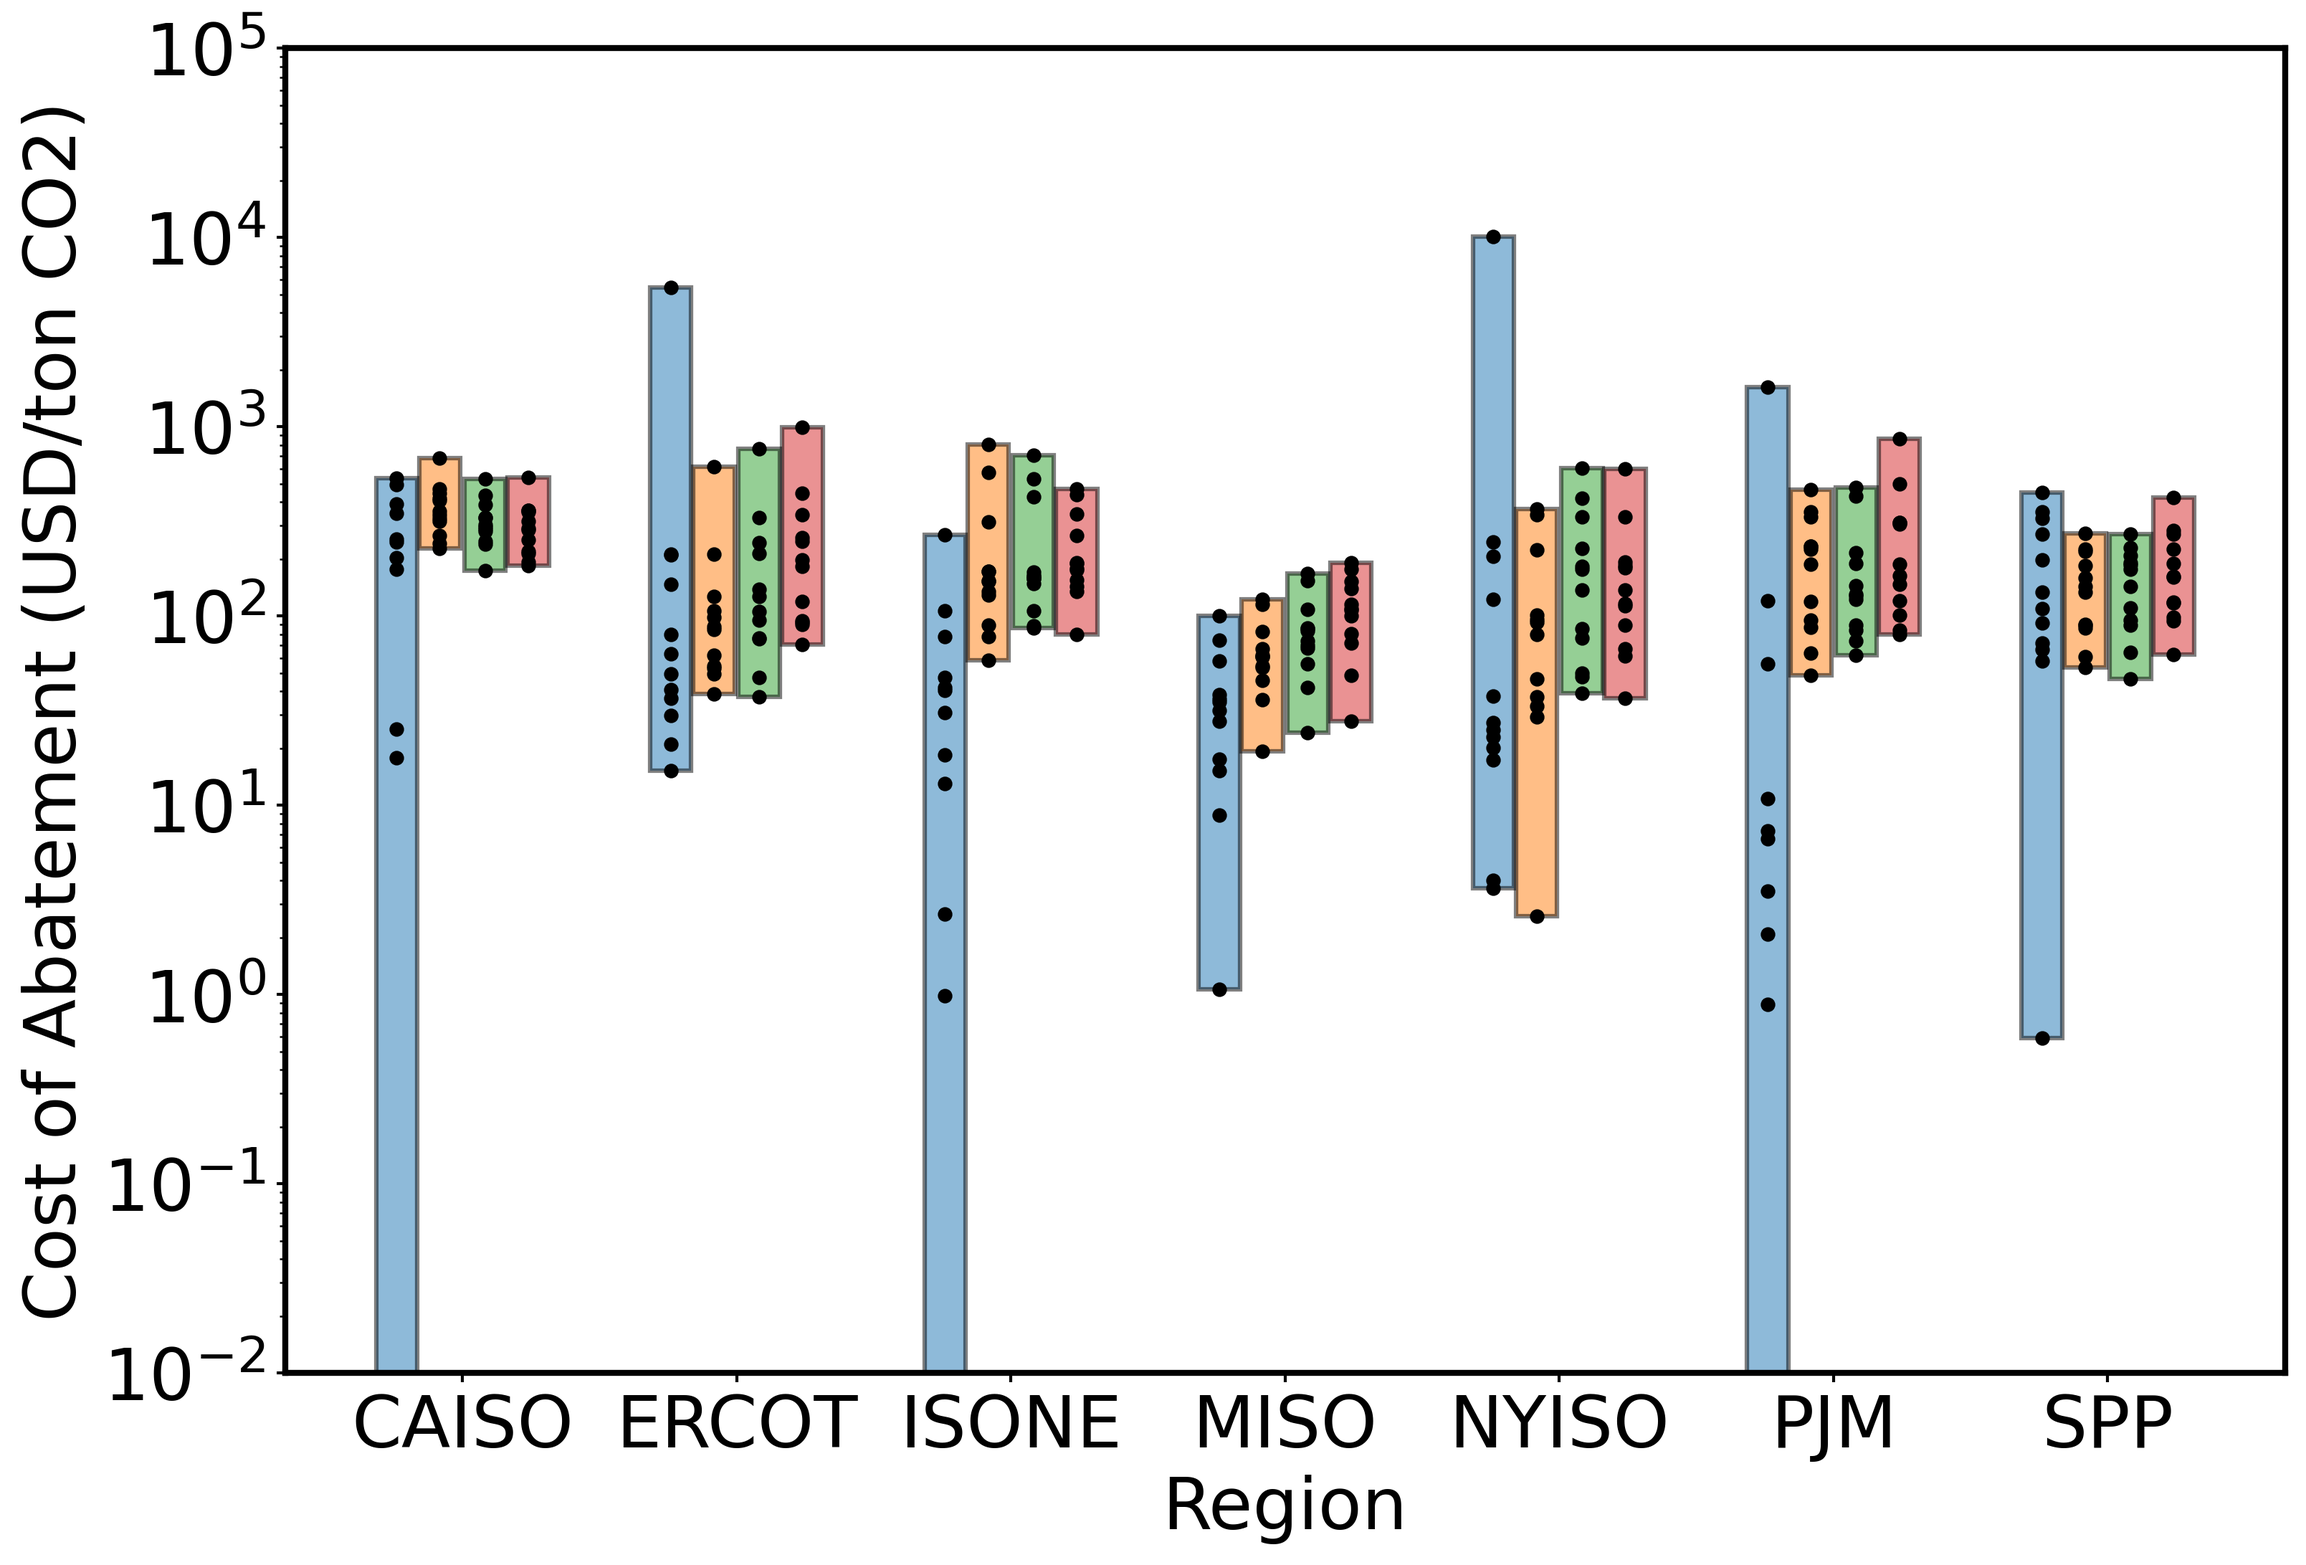
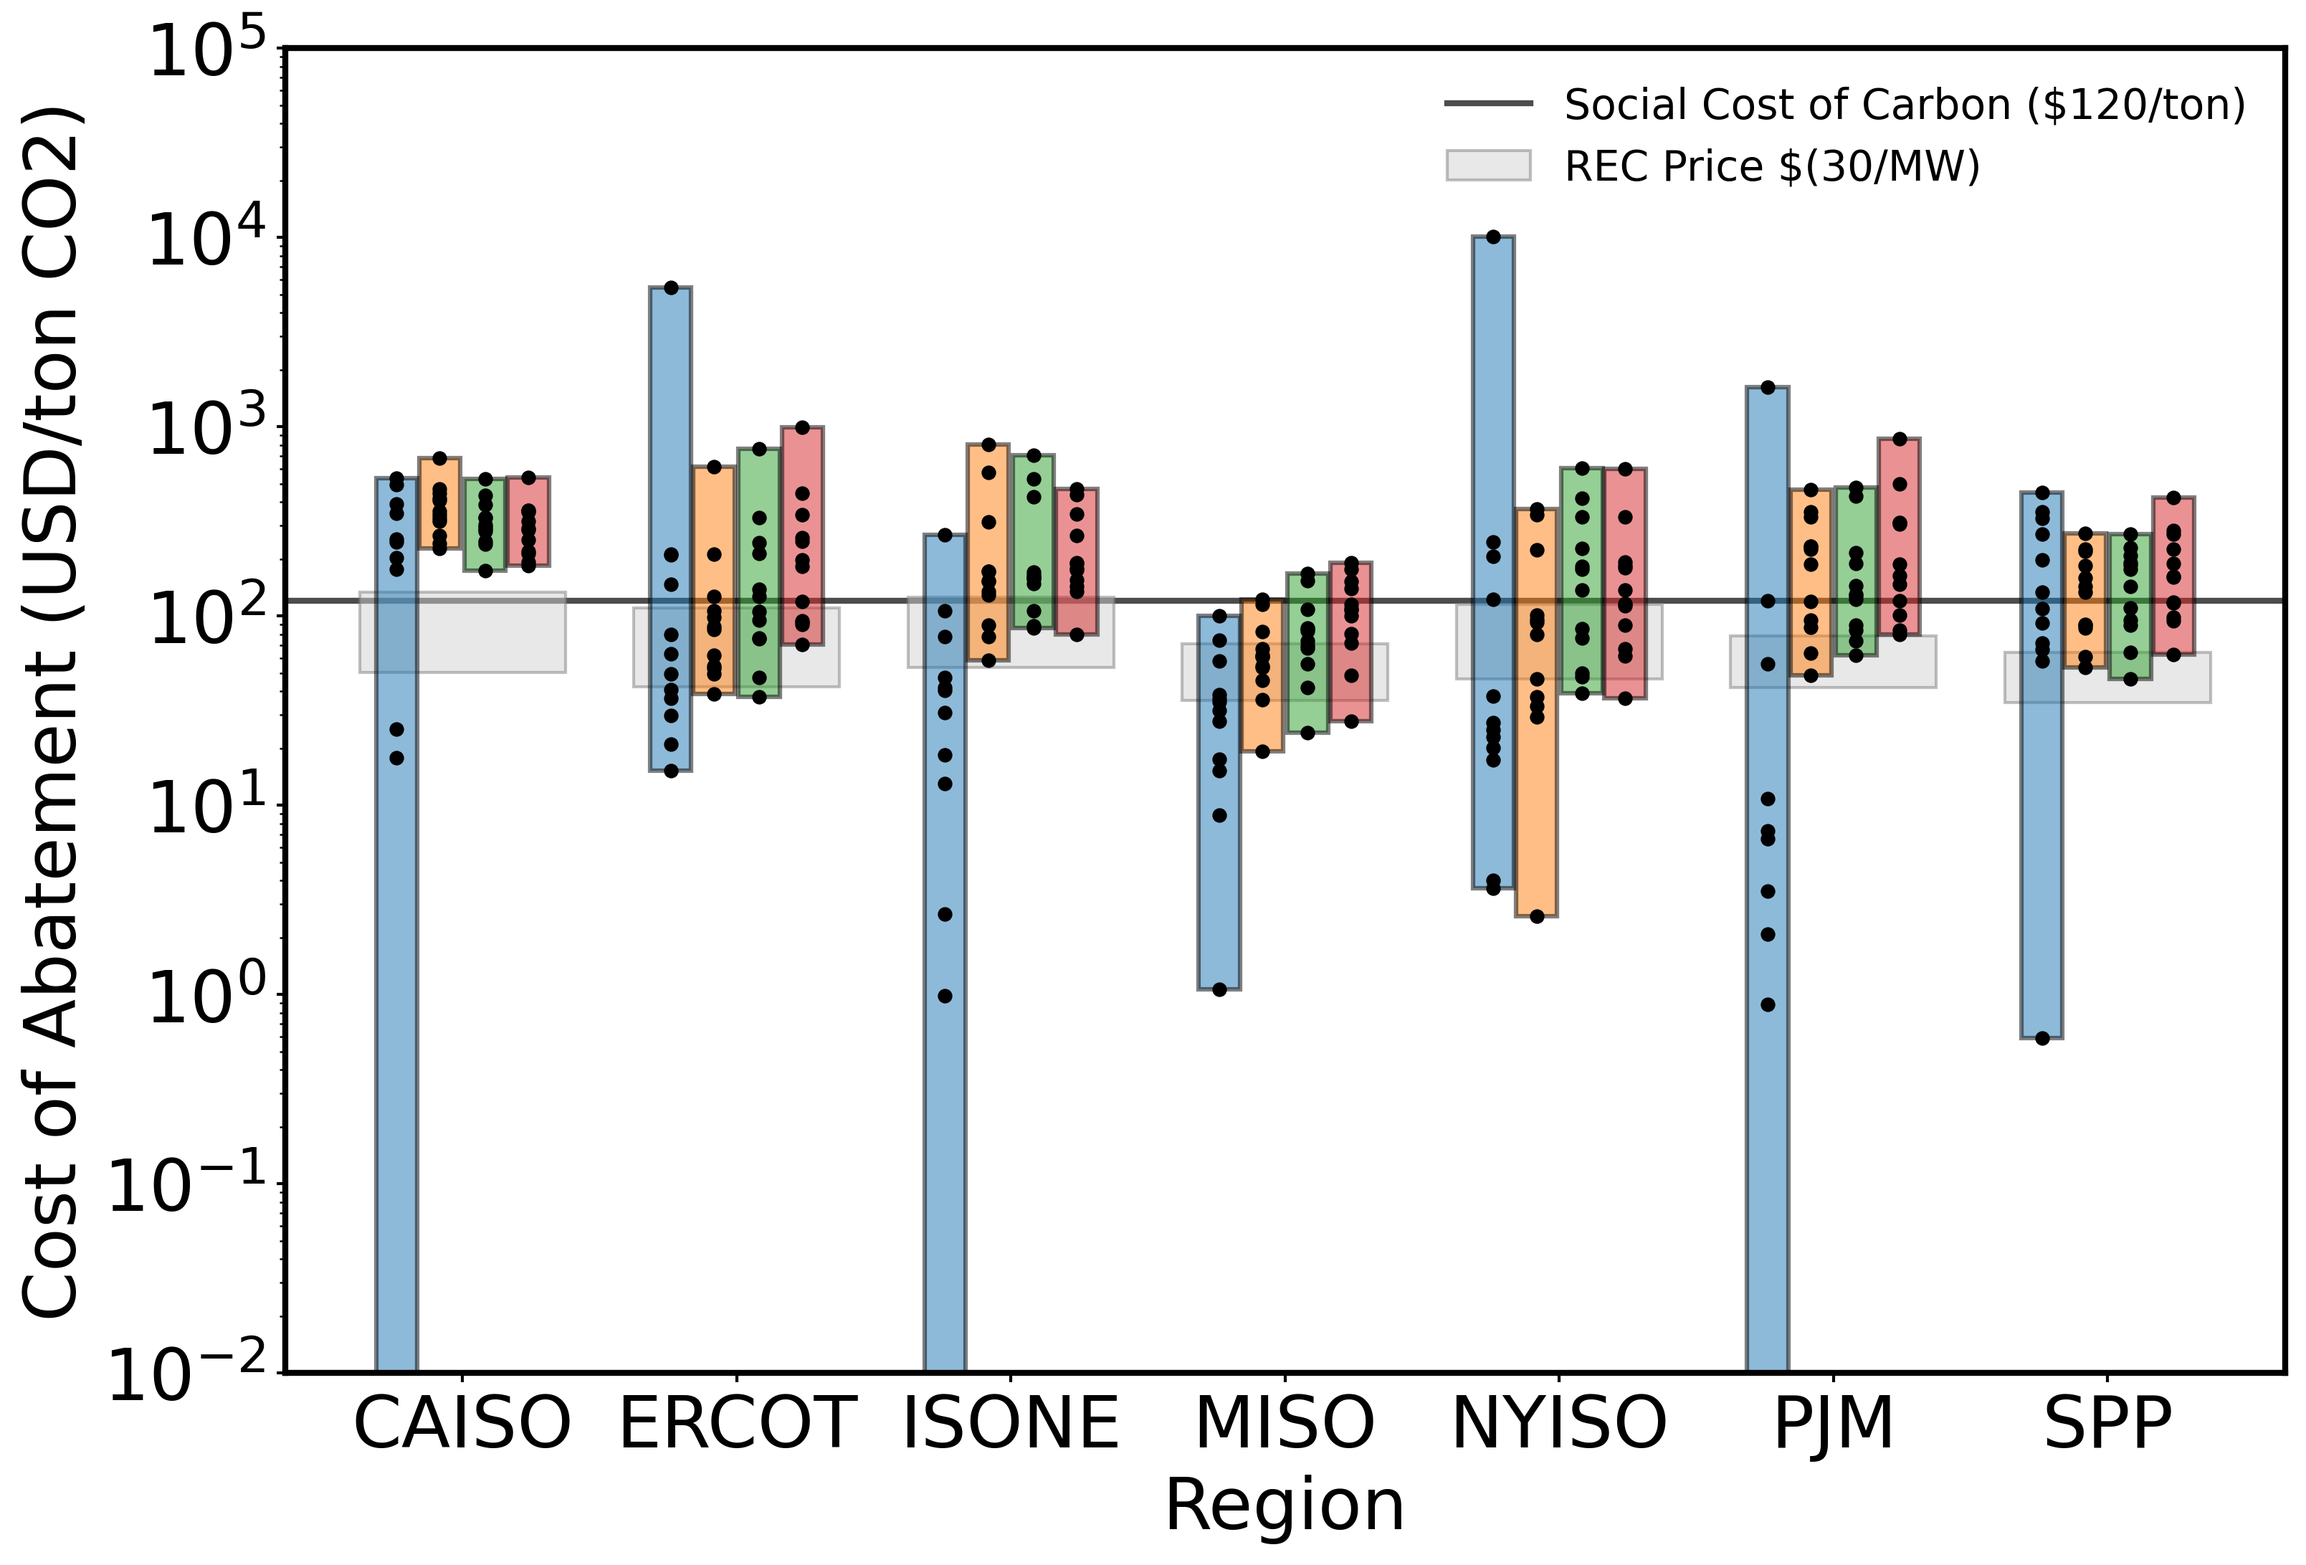
- Adding _add_scc_and_rec function to shadowcostwholesale_boxplot.py to add optional REC and SCC overlays
- Adding data/rec/values.csv as a placeholder for more REC values

- Adding updated shadowcost pdf and png

diff --git a/paper_figures/code/shadowcostwholesale_boxplot.py b/paper_figures/code/shadowcostwholesale_boxplot.py
@@ -2,6 +2,7 @@ import numpy as np
 import pandas as pd
 import os
 import matplotlib.pyplot as plt
+from matplotlib.patches import Rectangle, Patch
 
 from analysis import pricesignal as ps
 from analysis import emissionscost as ec
@@ -108,7 +109,7 @@ for region_idx, region in enumerate(regions):
                     height = height, 
                     bottom=bottom, 
                     width=width, 
-                    label=system_name, 
+                    label=sys, 
                     facecolor=colors[idx],
                     edgecolor='k',
                     linewidth=1.5,
@@ -125,6 +126,67 @@ ax.set(
     ylabel="Cost of Abatement (USD/ton CO2)",
     ylim=(1e-2, 1e5),
     yscale="log"
+)
+
+def _add_scc_and_rec(ax, regions, ps, width, scc=True, rec=True):
+    values_df = pd.read_csv("data/rec/values.csv") # TODO: update with more regional data
+    rec_price_usd_mw = values_df[values_df['type'] == 'rec']['typical'].values[0]  # $/MW
+    scc_price_usd_ton = values_df[values_df['type'] == 'scc']['typical'].values[0]  # $/ton
+    
+    legend_info = {'handles': [], 'labels': []}
+    
+    if scc:  # Add SCC line
+        scc_line = ax.axhline(
+            y=scc_price_usd_ton, color='black', linestyle='-', alpha=0.7, linewidth=2,
+            label=f'Social Cost of Carbon (${scc_price_usd_ton}/ton)', zorder=0
+        )
+        legend_info['handles'].append(scc_line)
+        legend_info['labels'].append(f'Social Cost of Carbon (${scc_price_usd_ton}/ton)')
+
+    if rec:  # Add REC boxes
+        rec_prices_by_region = {}
+        for region_idx, region in enumerate(regions):
+            # Gather MEF values (kg/MWh) for this ISO across months and hours
+            all_mef_kg_per_mwh = []
+            for month in range(1, 13):
+                mef_data = ps.getmef(region, month) # for 24 hr
+                all_mef_kg_per_mwh.extend(mef_data)
+            all_mef_ton_per_mwh = np.array(all_mef_kg_per_mwh) / 1000  # kg to ton
+            
+            # If a wholesaler has a fixed REC price, then
+            # the relative value in $/kg varies each hour
+            # during the year based on MEF
+            # REC price in $/MWh = $/MW * 1 hr
+            # REV value in $/kg = ($/MWh) / (kg/MWh) = $/kg
+            rec_prices_region = rec_price_usd_mw / all_mef_ton_per_mwh  # $/ton
+            rec_prices_region = rec_prices_region[~np.isnan(rec_prices_region)]  # remove nans
+            rec_prices_by_region[region] = rec_prices_region
+            min_rec = np.min(rec_prices_region)
+            max_rec = np.max(rec_prices_region)
+            
+            # Rectangle spanning bars for ISO
+            rec_rect = Rectangle(
+                (region_idx - width*2.5, min_rec),  # x, y (left edge, bottom)
+                width*5,  # width to cover all bars
+                max_rec - min_rec,  # height
+                facecolor='lightgray',
+                edgecolor='grey',
+                alpha=0.5,
+                zorder=0,  # behind the bars
+                label=f'REC Price $({rec_price_usd_mw}/MW)' if region_idx == 0 else None
+            )
+            ax.add_patch(rec_rect)
+        rec_patch = Patch(
+            facecolor='lightgray', alpha=0.5, edgecolor='grey', 
+            label=f'REC Price $({rec_price_usd_mw}/MW)'
+            )
+        legend_info['handles'].append(rec_patch)
+        legend_info['labels'].append(f'REC Price $({rec_price_usd_mw}/MW)')
+    ax.legend(legend_info['handles'], legend_info['labels'], loc='upper right', frameon=False, fontsize=14)
+
+# Comment this line out out to disable SCC and REC overlays
+_add_scc_and_rec(
+    ax, regions=regions, ps=ps, width=width, scc=True, rec=True
 )
 
 fig.savefig(os.path.join(paperfigs_basepath, "figures/png", "shadowcost_wholesale_boxplot.png"),
